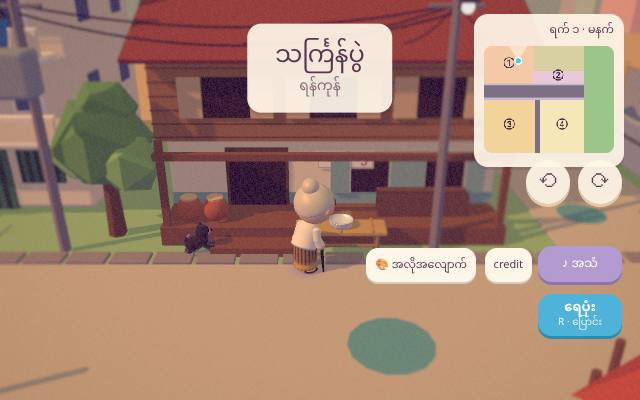
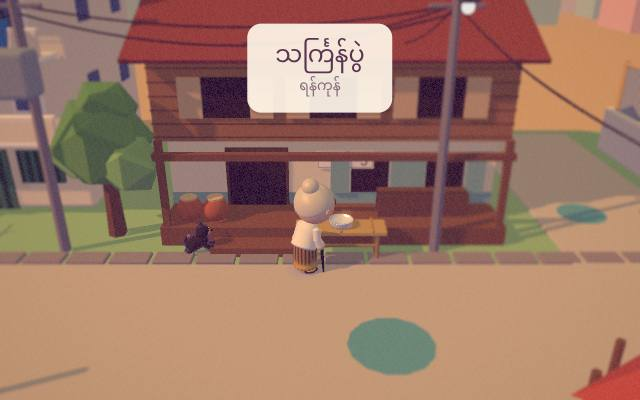
T5b-1: review fixes — HUD off in cinematics, close arrivals on a half-ring, Mum indoors, wip at the house front, bucket indoors, no swap hint
Claude-Session: https://claude.ai/code/session_017xuZq8H4cNKSMdBo5y4KvM

Changed region(s): [[0.7188, 0.03, 1.0, 0.54], [0.5625, 0.6, 1.0, 0.87]]

diff --git a/yangon/main.js b/yangon/main.js
@@ -32,6 +32,7 @@ const { THREE, scene, mesh, box, cyl, stripeTex, bubbleTex, bean, rnd, pick } = 
 const L = buildSet(W);
 const ROOMS = buildRooms(W); // the tea shop, the tailor's, the barber's off the street; home on the lane
 const hud = createHud(W);
+{ const cin = hud.cinematic; hud.cinematic = on => { cin(on); document.body.classList.toggle('cine', !!on); }; } // T5b: a cinematic (the Prologue, every story line) hides the HUD on every screen, not only phones (yangon.html body.cine)
 const sound = createSound(W); W.onFx = (n, p) => sound.fx(n, p); // ambience + effects, no music yet
 const V = (x, z, y = 0) => new THREE.Vector3(x, y, z), v = new THREE.Vector3(), $ = id => document.getElementById(id);
 const DEBUG = new URLSearchParams(location.search).has('debug');
@@ -208,7 +209,7 @@ function onThrowFx(c, t, hand) { // a 'lob' (May Thu) or a 'throw' (you, with a 
 }
 // your E with nothing to do: the bucket heave (world.js) or, once May Thu gave you one, a balloon (R swaps)
 S.tool ??= 'bucket';
-const setTool = t => { S.tool = t; hud.tool(t === 'balloon' ? 'balloon' : 'bucket'); save(); };
+const setTool = t => { S.tool = t; hud.tool(t === 'balloon' ? 'balloon' : 'bucket'); if (!S.ball) $('tool').querySelector('small')?.remove(); save(); }; // one tool = no 「R · ပြောင်း」 hint
 const swapTool = () => { if (S.ball) setTool(S.tool === 'balloon' ? 'bucket' : 'balloon'); };
 $('tool').addEventListener('pointerdown', e => { e.stopPropagation(); swapTool(); });
 addEventListener('keydown', e => { if (e.code === 'KeyR' && !e.repeat) swapTool(); });
@@ -235,10 +236,11 @@ const advance = next => { S.step = next; save(); };
 const HOME_OUT = V(4.4, -3.3 + OZ), MUM_DAY = V(6.9, -3.5 + OZ), GATHER = V(-3.3, -2.3);
 // T5b-1 (Scene B): where the gang stops in front of you (a loose arc 2–2.5 m from the door, bench + bowl stay in frame to the east), where they come in from (the west end of the
 // home lane) and where they wait after Cho Cho leads off (wip)
-const ARC = { ngazwe: [2.9, -2.5], maythu: [3.8, -2.2], chocho: [5.0, -2.4], phoekyaw: [2.2, -3.3] };
+const ring = (deg, r) => [+(HOME_OUT.x - r * Math.cos(deg * Math.PI / 180)).toFixed(2), +(HOME_OUT.z + r * Math.sin(deg * Math.PI / 180)).toFixed(2)]; // a point r m from the hero's spot, deg° round from west (0) through south (90)
+const ARC = { ngazwe: ring(5, 2.3), maythu: ring(35, 2.1), chocho: ring(62, 2.2), phoekyaw: ring(105, 2.4) }; // a half-ring on the lane side: bench + bowl (east) stay clear
 const LANE_IN = { ngazwe: [-5.0, -2.4], maythu: [-5.1, -2.0], chocho: [-4.7, -2.7] };
-const WIP = { chocho: [-4.2, -3.6], maythu: [-3.4, -3.3], ngazwe: [-2.4, -3.5], phoekyaw: [-1.4, -3.2] };
-const BIKE_PARK = V(-2.95, -1.7);
+const AWAY = { chocho: [-4.2, -3.6], maythu: [-3.4, -3.3], ngazwe: [-2.4, -3.5], phoekyaw: [-1.4, -3.2] }; // where they walk off to (Cho Cho leads)
+const BIKE_PARK = V(-2.95, -1.7), WIP_BIKE = V(.8, -3.0);
 const LOT = { ngazwe: [.4, .4], maythu: [1.4, -.3], phoekyaw: [4.8, -.3], chocho: [-.2, 1.2] };
 const FRONT = { hero: [5.0, 4.3], ngazwe: [3.4, 4.0], maythu: [4.2, 4.4], phoekyaw: [5.9, 3.8], chocho: [6.5, 3.2] }; // five o'clock, at the mandat's front corner (not in line with the bus stop on the street behind)
 const BUCKET_SPOT = V(BTOP.x, BTOP.z + .55), AMP_SPOT = V(L.AMP.at.x + 1.05, L.AMP.at.z), TABLE = V(-.5, 2.6), TABLE_SPOT = V(.25, 2.7), WATER = V(5.2, 1.0), THROW = V(6.0, .3), THROW_RY = 1.03;
@@ -351,9 +353,9 @@ const CUES = {
   // after line 31: Cho Cho points down the lane and walks off west, the others follow a moment later
   leave: async () => {
     chocho.g.rotation.y = -Math.PI / 2; chocho.act('point'); await wait(1.0);
-    const first = walk(chocho, [WIP.chocho], 'walk', 12); await wait(3);
-    await Promise.all([first, ...[ngazwe, maythu, phoekyaw].map(k => walk(k, [WIP[k.id]], 'walk', 12))]);
-    for (const k of GANG) face(k, hero);
+    const first = walk(chocho, [AWAY.chocho], 'walk', 12); await wait(3);
+    await Promise.all([first, ...[ngazwe, maythu, phoekyaw].map(k => walk(k, [AWAY[k.id]], 'walk', 12))]);
+    await hud.fade(true, 500); placeWip(); await hud.fade(false, 500); // cut back to the house front: the gang stands round you, the bowl on the bench
   },
   ball: () => { S.ball = true; setTool('balloon'); hud.toast('+ ပူဖောင်း 🎈'); maythu.anim.play('wave'); },
   // 1-6
@@ -398,8 +400,8 @@ const dingBubble = () => cueBubble('ဒင်း', L.LAND4.clone().setY(2.4), 1.
 // ---------- rooms: walk in off the street (shops) or the lane (home) ----------
 let inside = null, backTo = null, seated = null;
 const ROOM_NAME = { tea: 'ရွှေလမင်း လက်ဖက်ရည်ဆိုင်', clothes: 'ရွှေရည် အထည်ဆိုင်', barber: 'ဆံပင်ညှပ်ဆိုင်', home: '' };
-function setInside(name, at) { const r = ROOMS[name]; inside = name; W.setRoom(r); hero.g.position.set(at?.x ?? r.spawn.x, .05, at?.z ?? r.spawn.z); hero.g.rotation.y = Math.PI; W.snapCam(); day.range.watch(false); }
-function setOutside(at) { stand(); W.setRoom(null); inside = null; hero.g.position.set(at.x, ground(at.x, at.z), at.z); hero.g.rotation.y = 0; W.snapCam(); day.range.watch(true); }
+function setInside(name, at) { const r = ROOMS[name]; inside = name; if (hero.ch.tools.includes('bucket')) hero.ch.tool = 'none'; /* the bucket stays outside */ W.setRoom(r); hero.g.position.set(at?.x ?? r.spawn.x, .05, at?.z ?? r.spawn.z); hero.g.rotation.y = Math.PI; W.snapCam(); day.range.watch(false); }
+function setOutside(at) { stand(); W.setRoom(null); inside = null; if (hero.ch.tools.includes('bucket')) hero.ch.tool = 'bucket'; hero.g.position.set(at.x, ground(at.x, at.z), at.z); hero.g.rotation.y = 0; W.snapCam(); day.range.watch(true); }
 async function enter(name) {
   hud.cinematic(true); await hud.fade(true, 350);
   backTo = name === 'home' ? HOME_OUT.clone() : W.player.g.position.clone(); setInside(name);
@@ -434,12 +436,17 @@ function sitBarber() { const ch = ROOMS.barber.chairs[0]; sitAt(ch, ch.lift); ta
 function tryOn() { const p = W.player, m = ROOMS.clothes.mirror; p.g.position.set(m.x, .05, m.z); p.g.rotation.y = -Math.PI / 2; talk([['အထည်ဆိုင် မမ', 'မှန်ရှေ့မှာ ဝတ်ကြည့်။']], () => openClothes({ W, hud, S, dress, onClose: () => tailor.anim.play('wave') }), tailor); }
 function toRoomChair() { const c = ROOMS.home.chair; put(bwabwa, c.x, c.z, c.ry, .05 + c.lift); bwabwa.anim.setLoop('sit'); }
 
+// wip (the stop after line 31): the gang stands in the half-ring round you at the house front, Phoe Kyaw's bike parked near with his two buckets on the rack
+function placeWip() {
+  for (const k of GANG) { put(k, ...ARC[k.id], 0); k.anim.setLoop('idle'); face(k, hero); }
+  bike.g.visible = true; bike.g.position.copy(WIP_BIKE); bike.g.rotation.y = Math.PI / 2; bike.g.add(pails); pails.visible = true; pails.rotation.set(0, Math.PI / 2, 0); pails.position.set(-.42, .68, 0);
+}
 // ---------- stage(step): where everyone is when a scene starts (a new game, a reload, the next scene) ----------
 function stage(step) {
   const H = ROOMS.home, out = !['pro', '1-1', '1-8', 'done'].includes(step), NEW = ['pro', '1-1', '1-2', 'wip'].includes(step);
   day.phase(PHASE_OF[step]); day.goal({ pro: '', '1-1': '', '1-2': '', '1-8': GOALS['1-7'], done: GOALS['1-7'] }[step] ?? GOALS['1-2']); // the goal line appears in 1-2 (its cue) and changes in 1-7
   // family
-  if (out) put(mom, MUM_DAY.x, MUM_DAY.z, Math.PI * .8); else if (step === '1-1' || step === 'pro') put(mom, H.mom.x, H.mom.z, H.mom.ry, .05); else put(mom, H.mat.x - .4, H.mat.z + 1.9, Math.PI * .75, .05); // at night by the door side, out of the way
+  if (out && !NEW) put(mom, MUM_DAY.x, MUM_DAY.z, Math.PI * .8); else if (step === '1-1' || step === 'pro') put(mom, H.mom.x, H.mom.z, H.mom.ry, .05); else put(mom, H.mat.x - .4, H.mat.z + 1.9, Math.PI * .75, .05); // at night (and in T5b's Scene B / wip, once you've stepped out) she's inside, out of the way
   if (step === '1-6') put(bwabwa, 4.6, -3.0 + OZ, 0); else if (step === 'pro') { put(bwabwa, L.BENCH.at.x - .5, L.BENCH.at.z + .45, Math.atan2(.5, -.45)); bwabwa.anim.setLoop('idle'); } else toRoomChair(); // (pro: she stands at the bench's left end, turned in to the bowl, so the camera still sees it)
   // the bowl: in Bwa Bwa's lap → in her arms (1-6) → on its seat (1-7) → over the fence (after)
   if (bowl.by) { bowl.by.release(true); bowl.by = null; } if (bowl.at) { bowl.at.item = null; bowl.at = null; }
@@ -449,13 +456,12 @@ function stage(step) {
   else { scene.attach(bowl.g); bowl.g.position.copy(L.LAND4); bowl.state = 'gone'; bowl.g.visible = false; } // in ④ now (T6)
   // the gang
   for (const k of GANG) { k.g.visible = false; k.anim.setLoop('idle'); }
-  if (step === 'wip') for (const k of GANG) { put(k, ...WIP[k.id], 0); face(k, V(HOME_OUT.x, HOME_OUT.z)); } // (1-2: nobody yet — each arrives on a cue)
   if (['1-3', '1-4', '1-5'].includes(step)) for (const k of GANG) put(k, ...LOT[k.id], 0);
   if (step === '1-3') put(ngazwe, BUCKET_SPOT.x + .9, BUCKET_SPOT.z + .4, Math.PI);
   if (step === '1-4') { put(chocho, -3.3, .3, -Math.PI / 2); put(phoekyaw, -3.4, -.6, -Math.PI / 2); }
   if (['1-6', '1-7'].includes(step)) for (const k of GANG) put(k, ...FRONT[k.id], Math.PI);
   scene.attach(pails); pails.visible = false; bike.g.visible = false;
-  if (step === 'wip') { bike.g.visible = true; bike.g.position.copy(BIKE_PARK); bike.g.rotation.y = Math.PI / 2; bike.g.add(pails); pails.visible = true; pails.rotation.set(0, Math.PI / 2, 0); pails.position.set(-.42, .68, 0); } // Phoe Kyaw's two buckets on the rack
+  if (step === 'wip') placeWip(); // (1-2: nobody yet — each arrives on a cue)
   else if (!NEW) { bike.g.visible = true; bike.g.position.set(6.4, 0, -1.2); bike.g.rotation.y = 0; pails.visible = out; if (out) { pails.position.set(WATER.x, .02, WATER.z); } }
   // Saya Gyi at five o'clock only; Ko Zaw at his table for M3
   hide(sayagyi); if (step === '1-5') put(kozaw, TABLE.x, TABLE.z + .7, Math.PI); else hide(kozaw);
@@ -735,7 +741,7 @@ $('eagain').addEventListener('click', e => { e.stopPropagation(); wipe(); locati
 stage(S.step); save();
 W.start();
 if (DEBUG) window.zone = { W, S: () => S, day, story, director, rooms: ROOMS, inside: () => inside, mandat, cw, pc, hero, people: PEOPLE, SPOTS, hud, here, sound, L, life, bowl, bucket: () => ({ ...BK }), lastThrow, mission: MISSION,
-  bulbs: () => fixing, throwing: () => !!flight?.it, ding: () => cues.some(c => c.el.textContent === 'ဒင်း'), dingNow: () => dingBubble(), talking: () => hud.talking(), mini: () => hud.mini(), stage, bench, bowlOnBench, ARC, WIP, pails, bike, fast: false,
+  bulbs: () => fixing, throwing: () => !!flight?.it, ding: () => cues.some(c => c.el.textContent === 'ဒင်း'), dingNow: () => dingBubble(), talking: () => hud.talking(), mini: () => hud.mini(), stage, bench, bowlOnBench, ARC, AWAY, pails, bike, fast: false,
   // tests: do what the goal points at — go there and press E (an auto spot just needs you there)
   next() {
     if (hud.busy() || story.playing || flight || fixing) return 'busy';

diff --git a/yangon.html b/yangon.html
@@ -143,6 +143,7 @@
     #upd{left:50%;transform:translateX(-50%);top:calc(64px + env(safe-area-inset-top,0px));bottom:auto;max-width:calc(100vw - 40px)}
     body.busy :is(#splash,#jump,#tool,#stick,#prompt,#goal,#where,#opt,#opts,#turn){display:none!important}
   }
+  body.cine :is(#where,#turn,#opt,#opts,#tool,#splash,#jump,#stick,#hint,#prompt){display:none!important} /* a cinematic (the Prologue, every story line): nothing but the picture and the box */
   @media (prefers-reduced-motion:reduce){#area,#title{transition:none}}
 </style>
 </head>

diff --git a/docs/plans/T5b.md b/docs/plans/T5b.md
@@ -39,22 +39,23 @@ Screenshots in `docs/day1b/`: pro, 1-1 ×3, 1-2 ×4, wip, phone 375×667.
 ## Decisions from the plan review (binding)
 `{son}` on lines 1 and 5 only · a pose-only `polish` one-shot in cast.js (played twice) · `hold` = clusters / 28 + max(1.6, clusters × .06), cap 8 s · hero = bucket only (`S.ball` stays false, R does nothing) · a second wip button · arrivals from the west along the home lane, stopping in a loose arc 2–2.5 m in front of the hero · gestures through the line's `act` · the bowl sits on a carry target (`bench`, `bowl.at = bench`, no E label yet) · no 「ရက် ၂」 card.
 
-## Results (T5b-1)
+## Results (T5b-1, after code review 1)
 `node docs/day1b/check.cjs` (python3 -m http.server 8797, `?debug&dt=0.2`): **ALL PASS, console errors 0**.
-- 31 lines shown, verbatim and with the right speaker, in order (SCENARIO.md parsed at run time); `?girl` → lines 1 and 5 say 「သမီး」 / 「သမီးတို့」, the other seven lines unchanged.
-- Game time at reading pace: Prologue 11.2 s (tap skips it: 1-1 at 1.6 s) · Scene A 28.0 s (budget 60) · Scene B 86.6 s (budget 100; it includes the three arrivals, Phoe Kyaw's bike run and Cho Cho leading off).
-- Arrivals: Nga Zwe at 42.9 → May Thu + Cho Cho together at 54.1 → Phoe Kyaw at 75.8 (game s); each hidden until its cue (checked at lines 10, 13, 15, 19).
-- Kit: no pump or jerry can mesh on anyone; hero `tools ['bucket']`; Nga Zwe empty; May Thu balloon bag; Cho Cho the small gun; Phoe Kyaw bucket in hand + two on the bike's rack. Gestures really play (mom `hips`, hero `nod`, Nga Zwe `scratch`, Cho Cho `point`); arrival shows (`lob`, `squirt`, `splash` + `ring`) play, Nga Zwe shows nothing.
-- Bowl: on the bench (world position within 5 cm of the bench socket, `bowl.at === bench`) at pro and at all 31 lines and at wip, also after a reload; Bwa Bwa is inside the house during 1-1.
-- `?day=1&step=1-2` plays 10–31 then wip; a reload mid-1-2 restarts Scene B; a reload at wip shows the card again; `?day=1&step=1-3` is ignored (the save stays at `pro`). cast.html, war.html, camlab.html, carry-lab.html load with console 0.
-- Screenshots in `docs/day1b/`: `pro`, `1-1-mum`, `1-1-hero`, `1-1-bwabwa`, `1-2-ngazwe`, `1-2-maythu-chocho`, `1-2-phoekyaw`, `1-2-gang` (the check swings the camera wide for this one so bench + bowl + the arc of kids show), `wip`, `phone-wip-375`, `phone-1-2-375`.
+- 31 lines shown, verbatim and with the right speaker, in order (SCENARIO.md parsed at run time); `?girl` → lines 1 and 5 say 「သမီး」 / 「သမီးတို့」, the other seven unchanged.
+- Game time at reading pace: Prologue 10.9 s (a tap skips it: 1-1 at 1.7 s) · Scene A 27.7 s (budget 60) · Scene B 86.0 s (budget 100; includes the arrivals, Phoe Kyaw's bike run and the walk-off + cut).
+- Arrivals: Nga Zwe at 42.4 → May Thu + Cho Cho together at 53.5 → Phoe Kyaw at 73.6 (game s), each hidden until its cue. Every cue finishes (kid stopped, facing the hero: 0° at the first line after it) before the next line; the speaker is 2.3 / 2.3 / 2.4 m from the hero at lines 10 / 14 / 19. The four stand on a half-ring round the hero's spot, 2.1–2.4 m, west to south (`ring()` in main.js); bench + bowl to the east stay clear.
+- Review fixes: the HUD (map, turn buttons, ⚙ menu, tool pad, hints) is hidden by `body.cine` whenever `hud.cinematic` is on — asserted at the Prologue and at all 31 lines, and back in free roam · the tool pad has no 「R · ပြောင်း」 while there is one tool (`!S.ball`) · Mum goes back indoors when the hero steps out (not at the door in Scene B or wip) · the held bucket is hidden indoors (1-1) and shown outside (1-2) · after the walk-off the story fades out/in and the gang stands on the same half-ring at the house front, the bike parked near, so free roam and a reload at wip start there (asserted, also after a reload).
+- Water: May Thu's balloon flies and pops (`splash` fx 0.5–1.65 s after her `lob`), Phoe Kyaw's bucket throws water (his `splash` one-shot goes through world.js `emitFx`, `adopt()` wires it for cast members — a `splash` fx within 1.2 s), Cho Cho's squirt runs. All three aim into the empty lot (south), none at the others.
+- Kit: no pump or jerry can mesh on anyone; hero `tools ['bucket']`; Nga Zwe empty; May Thu balloon bag; Cho Cho the small gun; Phoe Kyaw bucket in hand + two on the bike's rack. Gestures really play (mom `hips`, hero `nod`, Nga Zwe `scratch`, Cho Cho `point`); Nga Zwe shows nothing.
+- Bowl: on the bench (within 5 cm of the bench socket, `bowl.at === bench`) in pro, at all 31 lines and at wip, also after a reload; Bwa Bwa inside the house during 1-1.
+- `?day=1&step=1-2` plays 10–31 then wip; a reload mid-1-2 restarts Scene B; a reload at wip shows the card again; `?day=1&step=1-3` is ignored (the save stays at `pro`). No 「ရက် ၂」 card anywhere. cast.html, war.html, camlab.html, carry-lab.html load with console 0.
+- Screenshots in `docs/day1b/`: `pro`, `1-1-mum`, `1-1-hero`, `1-1-bwabwa`, `1-2-ngazwe`, `1-2-maythu-chocho`, `1-2-phoekyaw`, `1-2-gang` (the check lifts the camera for this one so the half-ring, bench and bowl show), `wip` (card), `wip-roam` (card closed), `phone-wip-375`, `phone-1-2-375`.
 - Version strings: cast.js 14 (main, cast.html, camlab.js, carry-lab.html, war.js; camlab.html 6, war.html 17) · set.js 23 (main, day, life, downtown, docs/talk/check.cjs) · save.js 10 · story.js 4 · day.js 5 · life.js 21 · downtown.js 19 · main.js 33 · boot.js 34 · sw.js y22. chibi / world / camera / talk / hud untouched.
 
 ### Honest notes
-- **wip gang position differs from the spec.** After Cho Cho leads off, the gang ends west on the home lane (`WIP` spots, 6–8 m from the door, bike parked at the lane corner) and the wip card appears there; a reload at wip puts them on the same spots, not at the house front. Walking them off and then back looked worse than waiting where they walked to. One-line change if you want them at the front (`WIP` in main.js).
-- Mum stays outside at her T5 spot (`MUM_DAY`, just east of the bench) during Scene B. Silent.
-- Squirt/lob/splash shows are anims plus a short jet (Cho Cho) and one balloon lobbed into the empty lot (May Thu); Phoe Kyaw's bucket splash is the animation only (no water fx).
-- Faces use T5's emote bubbles (`sly` `worry` `pout` `shock`; `ok` has no bubble — line 9 is `pout` + the `nod` gesture); real faces wait for T6.5.
-- The pro frame is not director-driven (focus on the bench, the title moved up so the bowl stays visible). Bwa Bwa stands at the bench's left end turned in, because from the lane she hid the bowl when she stood in front.
-- The T5 check scripts `docs/day1/check.cjs` and `docs/talk/check.cjs` still describe T5's day-1 flow (1-1 → 1-8 / `step=1-3`) and are stale until T5b-2; the one edit I made there is the `set.js?v=` string in the talk check.
+- Faces use T5's emote bubbles (`sly` `worry` `pout` `shock`; `ok` has no bubble — line 9 is `pout` + the `nod` gesture); real faces wait for T6.5. Phoe Kyaw's splash and May Thu's lob are real water, but the lot they land on is empty ground (nothing to see it hit).
+- Mid-conversation the talk director turns listeners towards whoever speaks, so "facing the hero" is only asserted right after each arrival.
+- The Prologue frame is not director-driven (a focus on the bench; title moved up; Bwa Bwa at the bench's left end so she doesn't hide the bowl). The teal disc in the lane is a ground decal, not the hero's ring.
+- T10's over-the-shoulder foreground head in 1-1-hero / 1-2-ngazwe is talk.js (not touched).
+- The T5 check scripts `docs/day1/check.cjs` and `docs/talk/check.cjs` still describe T5's day-1 flow and are stale until T5b-2 (the only edit there is the `set.js?v=` string).
 - Not touched: TASKS.md, SCENARIO.md; T5's scenes 1-3 … 1-8, their cues, spots and stage branches are still in main.js, unreachable.
